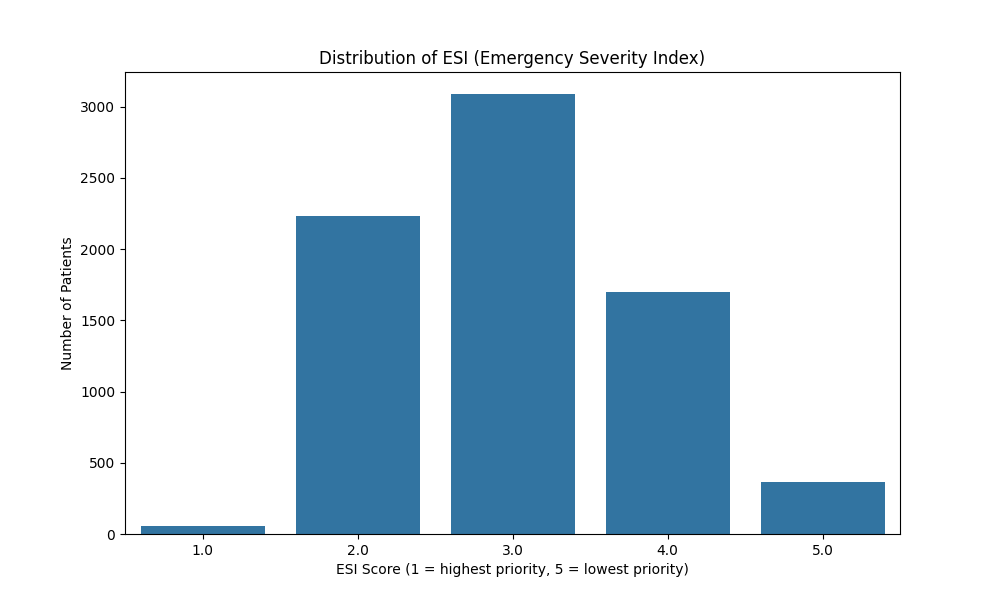
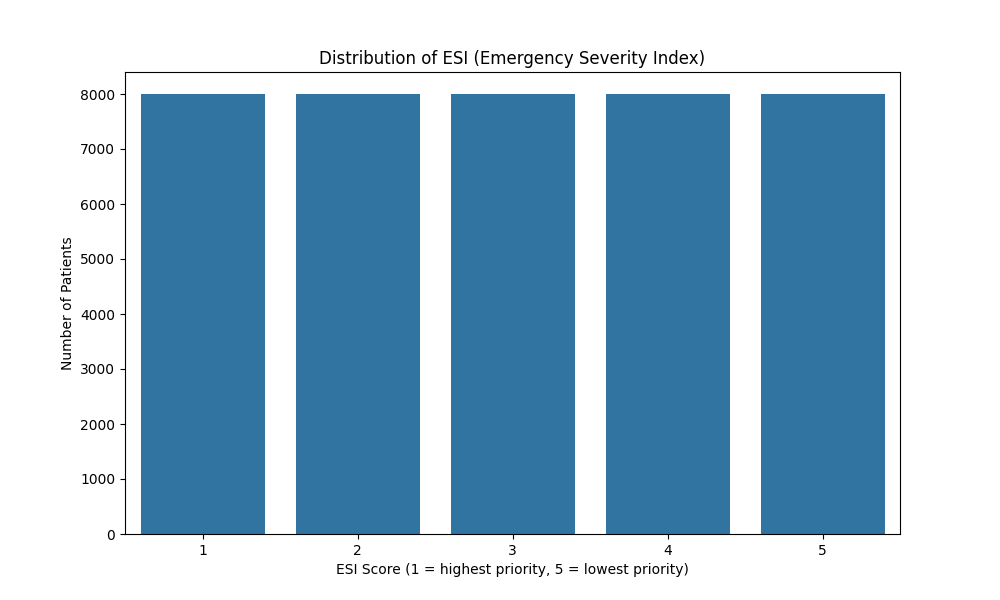
trying to improve model with more input

diff --git a/DeepLearningMLPfulldata.py b/DeepLearningMLPfulldata.py
@@ -1,0 +1,318 @@
+"""
+TreatmentFlow
+Deep Learning: Patient Priority Prediction
+
+Automate assignment of patient priority (1-5) using Triage information 
+Training based on 500k+ observation dataset of triage information associated with patient priority
+
+By Adam Neto and Emese Elkind
+Started: February 2025
+
+CISC 352: Artificial Intelligence
+
+DNN (Deep Neural Network) supervised classification model for patient triage and diagnosis prediction
+"""
+
+"""
+Step 1: Import Libraries
+sklearn and tensorflow libraries used for data preprocessing and deep learning model building
+"""
+import pandas as pd
+import numpy as np
+import matplotlib.pyplot as plt
+import seaborn as sns
+import os
+# Splitting Data into Training & Test Sets
+from sklearn.model_selection import train_test_split
+# Feature Scaling & Encoding Categorical Variables
+from sklearn.preprocessing import StandardScaler, OneHotEncoder
+from sklearn.compose import ColumnTransformer
+from sklearn.pipeline import Pipeline
+from sklearn.impute import SimpleImputer
+# For building the deep learning model
+from sklearn.neural_network import MLPClassifier
+# For evaluating the model
+from sklearn.metrics import accuracy_score, classification_report, confusion_matrix
+from sklearn.model_selection import GridSearchCV
+# For saving the model
+import joblib
+# For timing the training process
+import time
+
+"""
+Step 2: Load and Preprocess the Data. 
+    collect labeled data relevant to your problem, 
+    prepare the data by cleaning and preprocessing it
+"""
+def load_esi_data(esi_directory='C:/Users/emese/Desktop/TreatmentFlow/ESI_Files'):
+    """
+    Load data from separate ESI files and combine them into a single DataFrame
+    """
+    print(f"Loading ESI data from {esi_directory}...")
+    
+    combined_df = pd.DataFrame()
+    
+    # Loop through ESI levels 1-5
+    for esi_level in range(1, 6):
+        file_path = f"{esi_directory}/esi{esi_level}.csv"
+        
+        if os.path.exists(file_path):
+            print(f"Loading ESI level {esi_level} data from {file_path}")
+            df = pd.read_csv(file_path)
+            
+            # Check if the ESI values match the expected level
+            if 'esi' in df.columns:
+                # Verify that all rows have the correct ESI value
+                if not all(df['esi'] == esi_level):
+                    print(f"Warning: Not all rows in {file_path} have ESI = {esi_level}")
+                    print(f"ESI value counts in file: {df['esi'].value_counts()}")
+                    # Ensure all rows have the correct ESI value
+                    df = df[df['esi'] == esi_level]
+                
+                print(f"Loaded {len(df)} records with ESI level {esi_level}")
+                combined_df = pd.concat([combined_df, df])
+            else:
+                print(f"Error: 'esi' column not found in {file_path}")
+        else:
+            print(f"Error: File {file_path} not found")
+    
+    # Verify the final combined DataFrame
+    print(f"\nCombined dataset shape: {combined_df.shape}")
+    print("\nESI (Priority) Distribution in combined data:")
+    print(combined_df['esi'].value_counts().sort_index())
+    
+    # Create visualization of ESI distribution
+    plt.figure(figsize=(10, 6))
+    sns.countplot(x='esi', data=combined_df)
+    plt.title('Distribution of ESI (Emergency Severity Index)')
+    plt.xlabel('ESI Score (1 = highest priority, 5 = lowest priority)')
+    plt.ylabel('Number of Patients')
+    plt.savefig('esi_distribution.png')
+    plt.close()
+    print("\nCheck esi_distribution.png for the graph.")
+    
+    return combined_df
+
+def preprocess_data(DataFrame):
+    """Preprocess data for model training"""
+    
+    # Drop columns not needed for model training like non-medical demographic data
+    exclude_cols = ['dep_name','esi','lang','religion','maritalstatus','employstatus','insurance_status']  # Add any other columns to exclude
+    feature_cols = [col for col in DataFrame.columns if col not in exclude_cols]
+
+    # Split numeric and categorical features (use numpy)
+    num_features = DataFrame[feature_cols].select_dtypes(include=[np.number])
+    cat_features = DataFrame[feature_cols].select_dtypes(include=['object', 'category', 'bool'])
+    print(f"Using {len(num_features.columns)} numeric features and {len(cat_features.columns)} categorical features")
+
+    # Create preprocessing pipelines for numeric and categorical features
+    # Pipeline allows you to sequentially apply a list of transformers to preprocess the data
+    print("\nApplying preprocessing pipelines...")
+    
+    numeric_transformer = Pipeline(steps=[
+        ('imputer', SimpleImputer(strategy='median')),
+        ('scaler', StandardScaler())])
+    
+    categorical_transformer = Pipeline(steps=[
+        ('imputer', SimpleImputer(strategy='most_frequent')),
+        ('onehot', OneHotEncoder(handle_unknown='ignore'))])
+    
+    preprocessor = ColumnTransformer(
+        transformers=[
+            ('num', numeric_transformer, num_features.columns),
+            ('cat', categorical_transformer, cat_features.columns)])
+    
+    x = DataFrame[feature_cols]  # Features
+    y = DataFrame['esi'].values  # Target (Emergency Severity Index)
+    
+    # Handle NaN values in y
+    if np.isnan(y).any():
+        print("\nWarning: y contains NaN values. Imputing with most frequent value.")
+        y_imputer = SimpleImputer(strategy='most_frequent')
+        y = y_imputer.fit_transform(y.reshape(-1, 1)).ravel()
+
+    # Split the data into 80% training and 20% testing
+    x_train, x_test, y_train, y_test = train_test_split(x, y, test_size=0.2, random_state=42, stratify=y)
+    print("\nApplying transformations")
+    # Apply preprocessing - preprocessor from sklearn
+    x_train = preprocessor.fit_transform(x_train)
+    x_test = preprocessor.transform(x_test)
+    
+    print(f"\nPreprocessed training data shape: {x_train.shape}")
+    print(f"\nPreprocessed test data shape: {x_test.shape}")
+    
+    return x_train, x_test, y_train, y_test, preprocessor
+
+"""
+Step 3: Build the Model. 
+    select a suitable machine learning algorithm, 
+"""
+def build_model():
+    """Build the deep learning model for priority prediction"""
+    
+    # Create an MLPClassifier (Multi-Layer Perceptron - Neural Network)
+    start_time = time.time()
+
+    # MLPClassifier mimics a deep neural network architecture
+    model = MLPClassifier(
+        hidden_layer_sizes=(512, 256, 128),  
+        activation='relu',
+        solver='adam',
+        alpha=0.00005,               
+        batch_size=32,               
+        learning_rate_init=0.0005,  
+        max_iter=1000,               
+        early_stopping=True,         
+        validation_fraction=0.1,     
+        n_iter_no_change=20,         
+        random_state=42,             
+        verbose=True
+    )
+    print("\nModel created:")
+    print(model)
+    return model, start_time
+
+"""
+Step 4: Train the Model. 
+    train the model on the training data, 
+"""
+def train_model(model, start_time, x_train, y_train):
+    """Train the deep learning model"""
+    
+    # Train the model
+    model.fit(x_train, y_train)
+    # Calculate training time
+    training_time = time.time() - start_time
+    print(f"\nTraining completed in {training_time:.2f} seconds")
+
+    print("\nModel training complete.")
+    # Save the trained model
+    joblib.dump(model, 'patient_priority_model.pkl')
+    print("\nModel saved as patient_priority_model.pkl")
+    return model
+
+"""
+Step 5: Evaluate the Model. 
+    - Evaluate its performance on a separate test set, 
+"""
+def evaluate_model(model, start_time, x_test, y_test):
+    """Evaluate the deep learning model"""
+    # Evaluate the model
+    y_pred = model.predict(x_test)
+    accuracy = accuracy_score(y_test, y_pred)
+    print(f"\nModel accuracy: {accuracy:.2f}")
+    print("\nClassification Report:")
+    print(classification_report(y_test, y_pred))
+    print("\nConfusion Matrix:")
+    print(confusion_matrix(y_test, y_pred))
+
+    # Create and save confusion matrix visualization
+    cm = confusion_matrix(y_test, y_pred)
+    plt.figure(figsize=(10, 8))
+    sns.heatmap(cm, annot=True, fmt='d', cmap='Blues', xticklabels=[1, 2, 3, 4, 5], yticklabels=[1, 2, 3, 4, 5])
+    plt.title('Confusion Matrix for Patient Priority Prediction')
+    plt.ylabel('Actual Priority (ESI)')
+    plt.xlabel('Predicted Priority (ESI)')
+    plt.savefig('confusion_matrix.png')
+    plt.close()
+    print("\nConfusion matrix saved as 'confusion_matrix.png'")
+
+    # Save the model
+    joblib.dump(model, 'patient_priority_model.pkl')
+    print("\nModel saved as patient_priority_model.pkl")
+
+    # Print the total time taken
+    end_time = time.time()
+    total_time = end_time - start_time
+    print(f"\nTotal time taken: {total_time:.2f} seconds")
+    return model
+
+"""
+Step 6: Use the Model. 
+    - Deploy the model to make predictions on new data
+"""
+def predict_priority(model, sample_patients, preprocessor, priority_mapping):
+    """Predict patient priority using the trained model"""
+    print("\nPredicting patient priority for sample patients...")
+    new_data_processed = preprocessor.transform(sample_patients)
+    # Get predictions
+    predictions = model.predict(new_data_processed)
+    probabilities = model.predict_proba(new_data_processed)
+    # Create a results dataframe
+    results = pd.DataFrame({
+        'predicted_priority': predictions,
+        'priority_description': [priority_mapping[p] for p in predictions]
+    })
+    # Add probability for each priority level
+    for i in range(1, 6):
+        class_idx = model.classes_.tolist().index(i) if i in model.classes_ else -1
+        if class_idx >= 0:
+            results[f'probability_priority_{i}'] = probabilities[:, class_idx]
+        else:
+            results[f'probability_priority_{i}'] = 0.0
+    
+    return results
+
+def main():
+    # Initialize the model
+    print("\nWelcome to the TreatmentFlow Deep Learning module!")
+    print("\n -------------------------------------------------------------------------")
+    print("\nLoading data from separate ESI files.")
+    DataFrame = load_esi_data()
+    print("\n -------------------------------------------------------------------------")
+    print("\nPreprocessing data.")
+    x_train, x_test, y_train, y_test, preprocessor = preprocess_data(DataFrame)
+    # 5 levels of patient priority
+    priority_mapping = {
+            1: "Immediate (Life Threatening)",
+            2: "Emergency (Very Urgent)",
+            3: "Urgent",
+            4: "Semi-Urgent",
+            5: "Non-Urgent"
+        }
+    # Build the model
+    print("\n -------------------------------------------------------------------------")
+    print("\nBuilding deep learning model.")
+    model, start_time = build_model()
+    # Train the model
+    print("\n -------------------------------------------------------------------------")
+    print("\nTraining deep learning model.")
+    model = train_model(model, start_time, x_train, y_train)
+
+    # Evaluate the model    
+    print("\n -------------------------------------------------------------------------")
+    print("\nEvaluating deep learning model.")
+    model = evaluate_model(model, start_time, x_test, y_test)
+
+    # Predict patient priority for sample patients
+    print("\n -------------------------------------------------------------------------")
+    print("\nPredicting patient priority for sample patients.")
+    # Select random samples from each ESI level
+    sample_patients = pd.DataFrame()
+    for esi_level in range(1, 6):
+        # Get one sample from each ESI level
+        level_data = DataFrame[DataFrame['esi'] == esi_level]
+        if not level_data.empty:
+            sample = level_data.drop('esi', axis=1).sample(1)
+            sample_patients = pd.concat([sample_patients, sample])
+    
+    # If we didn't get samples from all levels, take random samples
+    if len(sample_patients) < 5:
+        additional_samples = 5 - len(sample_patients)
+        more_samples = DataFrame.drop('esi', axis=1).sample(additional_samples)
+        sample_patients = pd.concat([sample_patients, more_samples])
+    
+    results = predict_priority(model, sample_patients, preprocessor, priority_mapping)
+
+    # Display results
+    print("\nSample Patient Predictions:")
+    print(results[['predicted_priority', 'priority_description']])
+    
+    print("\nProbability breakdown for each priority level:")
+    probability_cols = [col for col in results.columns if 'probability_priority' in col]
+    print(results[probability_cols])
+    
+    print("\nTreatmentFlow Deep Learning module completed successfully!")
+
+if __name__ == "__main__":
+    main()
